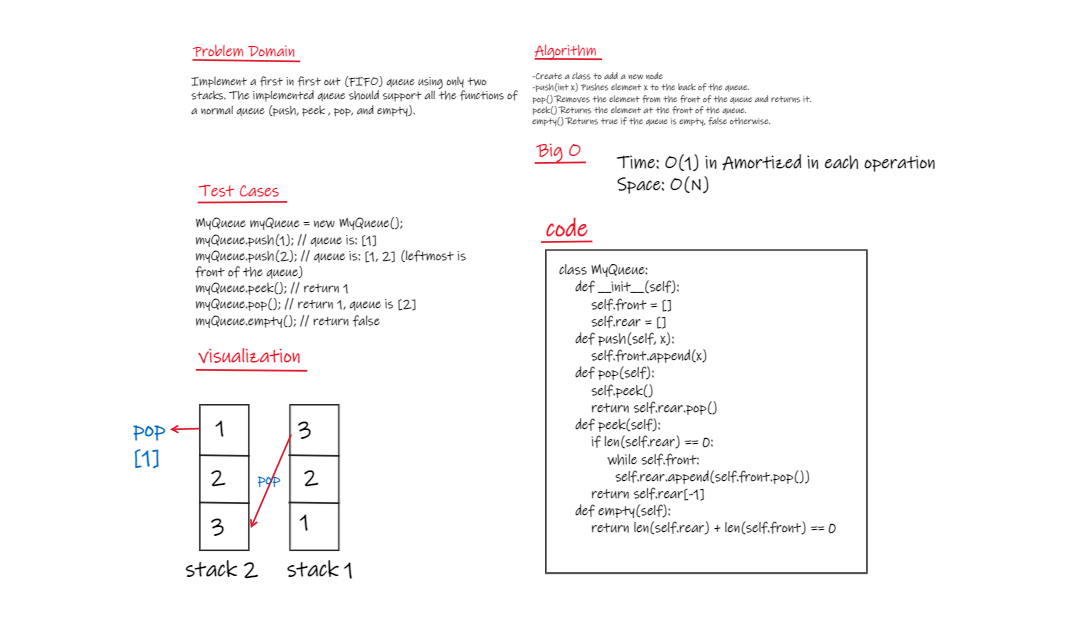
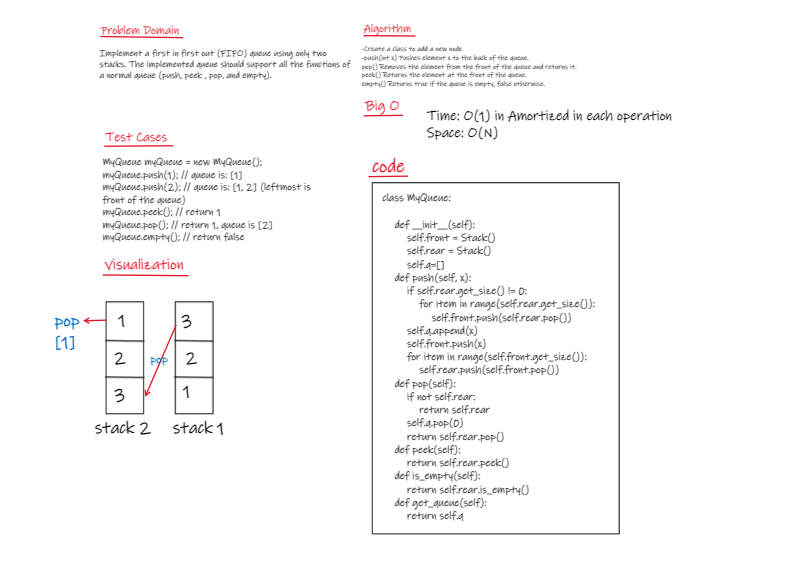
solve stack ch01

Changed region(s): [[0.1235, 0.0309, 0.8642, 0.9278], [0.0617, 0.2165, 0.4321, 0.9278]]

diff --git a/python/code_challenges/stack_queue/challenge01/challenge01.py b/python/code_challenges/stack_queue/challenge01/challenge01.py
@@ -1,41 +1,48 @@
 # Write here the code challenge solution
+from stack import Stack
 
 class MyQueue:
 
     def __init__(self):
-        self.front = []
-        self.rear = []
+        self.front = Stack()
+        self.rear = Stack()
+        self.q=[]
+        
 
     def push(self, x):
-        self.front.append(x)
+        if self.rear.get_size() != 0:
+            for item in range(self.rear.get_size()):
+                self.front.push(self.rear.pop())
+        self.q.append(x)
+        self.front.push(x)
+        for item in range(self.front.get_size()):
+            self.rear.push(self.front.pop())
         
     def pop(self):
-        self.peek()
+
+        if not self.rear:
+            return self.rear 
+        self.q.pop(0)
         return self.rear.pop()
 
     def peek(self):
-        if len(self.rear) == 0:
-            while self.front:
-                self.rear.append(self.front.pop())
-        return self.rear[-1]
+        return self.rear.peek()
 
-    def empty(self):
-        return len(self.rear) + len(self.front) == 0
+    def is_empty(self):
+        return self.rear.is_empty()
 
+    def get_queue(self):
+        return self.q
         
 
 if __name__ == '__main__':
 
-
+ 
     myQueue = MyQueue()
     myQueue.push(1) # queue is: [1]
     myQueue.push(2) # queue is: [1, 2] (leftmost is front of the queue)
-    print(myQueue.peek()) # return 1
+    myQueue.get_queue() # return 1
     print(myQueue.pop()) # return 1, queue is [2]
-    print(myQueue.empty()) # return false
-    myQueue.push(3) 
-    print(myQueue.peek()) 
-    print(myQueue.pop()) 
-    print(myQueue.pop()) 
-    print(myQueue.empty())
+
+  
    

diff --git a/python/code_challenges/stack_queue/challenge01/test_challenge01.py b/python/code_challenges/stack_queue/challenge01/test_challenge01.py
@@ -2,13 +2,43 @@
 from challenge01 import MyQueue
 
 
-def test_queue():
+def test_push():
     q = MyQueue()
     q.push(1)
     q.push(2)
     q.push(3)
-    assert q.pop() == 1
-    assert q.pop() == 2
-    assert q.peek() == 3
-    assert q.empty() == False
+    assert q.get_queue()==[1,2,3]    
+    q.push(7)
+    q.push(8)
+    q.push(9)
+    assert q.get_queue()==[1,2,3,7,8,9]
+
+def test_pop():
+    q = MyQueue()
+    q.push(1)
+    q.push(2)
+    q.push(3)
+    q.pop()
+    assert q.get_queue()==[2,3]    
+    q.push(7)
+    q.push(8)
+    q.push(9)
+    q.pop()
+    assert q.get_queue()==[3,7,8,9]
+
+
+def test_peek():
+    q = MyQueue()
+    q.push(1)
+    q.push(2)
+    q.peek()
+    assert q.get_queue()==[1,2]
+
+
+def test_is_empty():
+    q = MyQueue()
+    assert q.is_empty()==True
+    q.push(1)
+    assert q.is_empty()==False
+
 

diff --git a/python/code_challenges/stack_queue/challenge01/stack.py b/python/code_challenges/stack_queue/challenge01/stack.py
@@ -1,0 +1,38 @@
+class Node:
+    def __init__(self,vlaue):
+        self.next = None
+        self.value = vlaue
+
+class Stack:
+
+    def __init__(self):
+        self.top = None
+        self.size = 0
+
+    def push(self,value):
+        node = Node(value)
+        if self.top:
+            node.next = self.top
+        self.top = node
+        self.size += 1
+
+    def pop(self):
+        if self.top:
+            temp = self.top
+            self.top = self.top.next
+            self.size -= 1
+            return temp.value
+        else:
+            return("This stack is empty")
+    
+    def peek(self):
+        if self.top:
+            return self.top.value
+        else:
+            return("This stack is empty")
+
+    def get_size(self):
+        return self.size
+
+    def is_empty(self):
+        return self.size == 0
